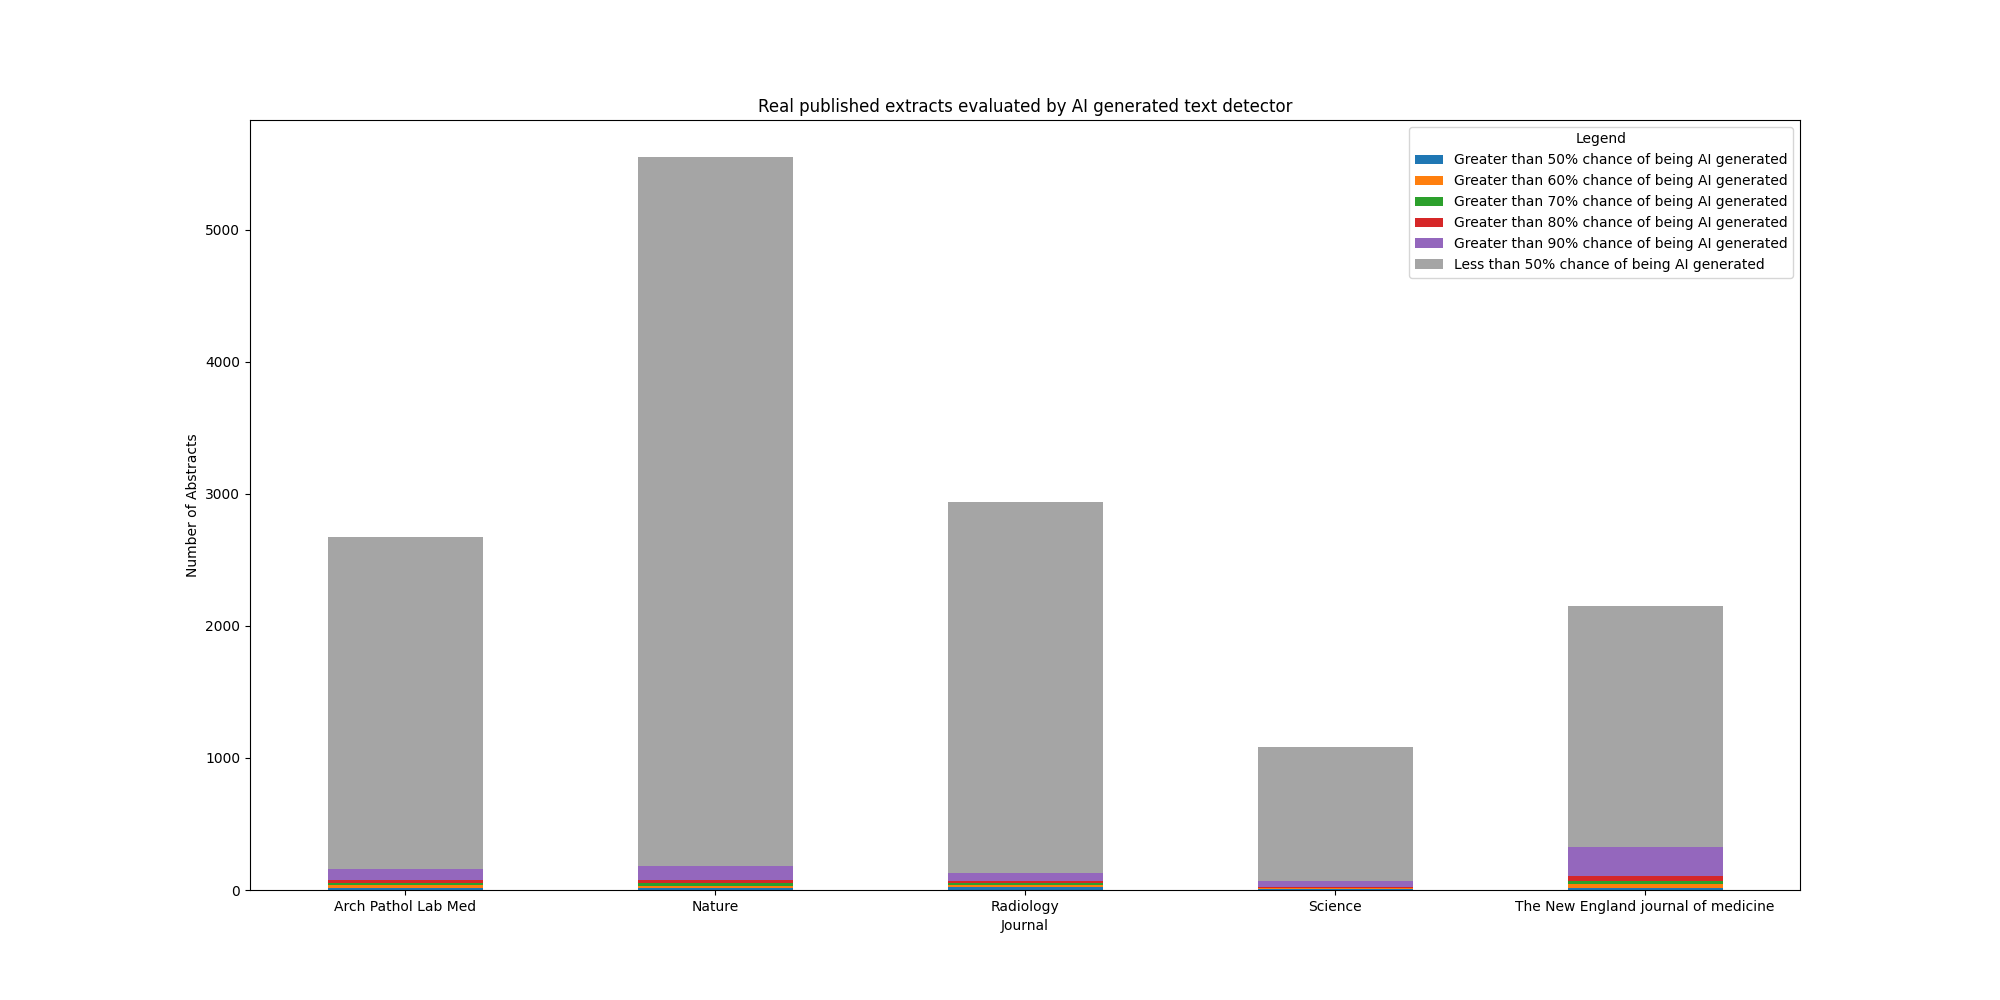
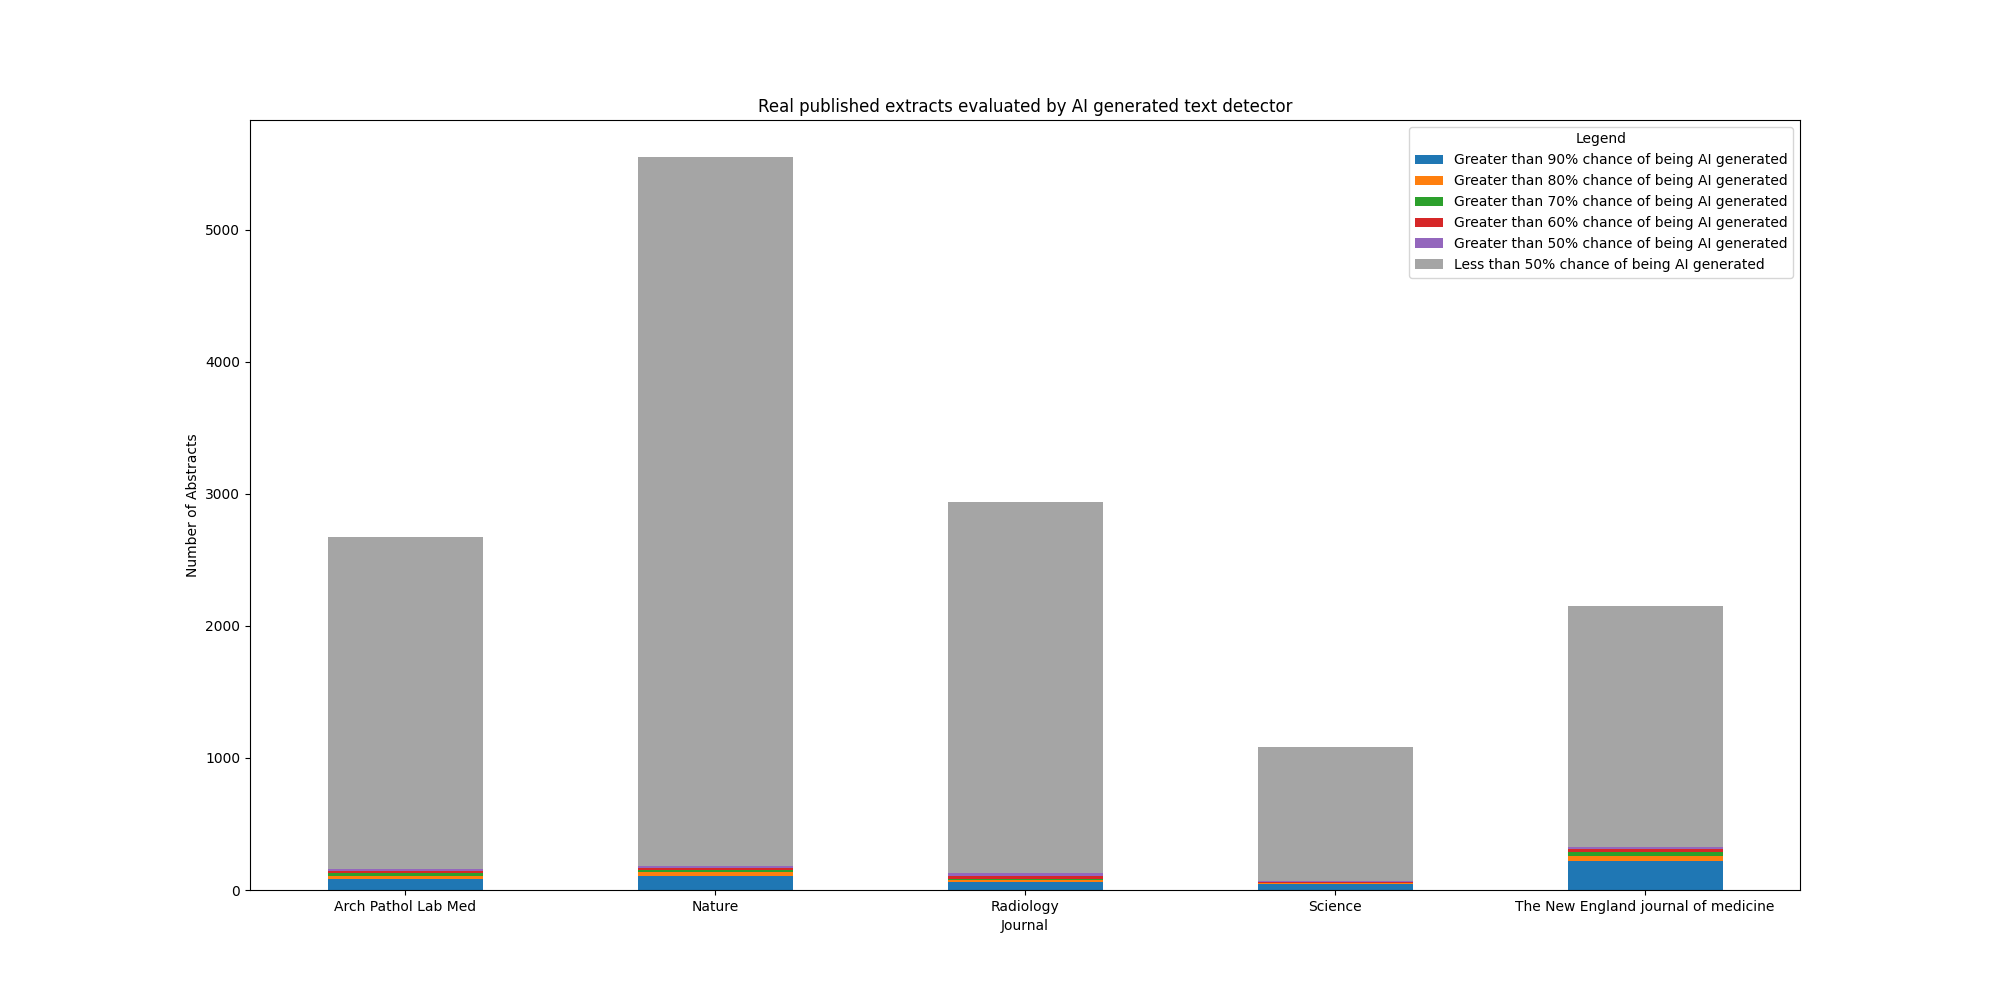
updates to the paper more index fixes to legend replacement viz update updating abstracts with stats from Dr. Hu

diff --git a/Scrap/abstracts-analysis.py b/Scrap/abstracts-analysis.py
@@ -4,45 +4,6 @@ from os import getcwd
 
 dir = getcwd()
 data_dir = dir.replace("Scrap", "Data\\")
-
-colors = [
-    "#1f77b4",  # blue
-    "#ff7f0e",  # orange
-    "#2ca02c",  # green
-    "#d62728",  # red
-    "#9467bd",  # purple
-    "#a5a5a5",  # grey
-]
-
-# by year
-yr_df_sample = read_csv(data_dir + "year-sample.csv")
-
-leg_rep = {
-    "Over 50% chance of being real": "Less than 50% chance of being AI generated",
-    "Less than 20% chance of being real": "Greater than 80% chance of being AI generated",
-    "Less than 10% chance of being real": "Greater than 90% chance of being AI generated",
-    "Less than 50% chance of being real": "Greater than 50% chance of being AI generated",
-    "Less than 30% chance of being real": "Greater than 70% chance of being AI generated",
-    "Less than 40% chance of being real": "Greater than 60% chance of being AI generated",
-}
-yr_df_sample["Legend"] = yr_df_sample["Legend"].replace(leg_rep)
-yr_grouped = yr_df_sample.groupby(["year_range", "Legend"]).size().unstack()
-
-new_order = [
-    "Greater than 90% chance of being AI generated",
-    "Greater than 80% chance of being AI generated",
-    "Greater than 70% chance of being AI generated",
-    "Greater than 60% chance of being AI generated",
-    "Greater than 50% chance of being AI generated",
-    "Less than 50% chance of being AI generated",
-]
-yr_grouped = yr_grouped.reindex(columns=new_order)
-
-tick_labels = yr_grouped.index.astype(str)
-yr_grouped.plot(kind="bar", stacked=True, color=colors, figsize=(20, 10))
-
-plt.xlabel("Year Range")
-plt.xticks(range(len(tick_labels)), tick_labels, rotation=0)
-plt.ylabel("Number of Abstracts")
-plt.title("Real published extracts evaluated by AI generated text detector")
-plt.show()
+abs_df = read_csv(data_dir + "abstracts.csv")
+abs_1_df = abs_df[abs_df["segment"] == 1]
+print(len(abs_1_df))

diff --git a/Code/pubmed-gpt-viz.py b/Code/pubmed-gpt-viz.py
@@ -1,7 +1,7 @@
 import matplotlib.pyplot as plt
 from pandas import read_csv
 from os import getcwd
-from numpy import zeros
+# from numpy import zeros
 
 dir = getcwd()
 data_dir = dir.replace("Code", "Data\\")
@@ -85,16 +85,7 @@ plt.savefig(viz_dir + "Years.png")
 # by journal
 jr_grouped = yr_df_sample.groupby(["journal", "Legend"]).size().unstack()
 
-new_order = [
-    "Greater than 90% chance of being AI generated",
-    "Greater than 80% chance of being AI generated",
-    "Greater than 70% chance of being AI generated",
-    "Greater than 60% chance of being AI generated",
-    "Greater than 50% chance of being AI generated",
-    "Less than 50% chance of being AI generated",
-]
-
-yr_grouped = yr_grouped.reindex(columns=new_order)
+jr_grouped = jr_grouped.reindex(columns=new_order)
 tick_labels = jr_grouped.index.astype(str)
 jr_grouped.plot(kind="bar", stacked=True, color=colors, figsize=(20, 10))
 
@@ -134,11 +125,12 @@ seg_df_sample = abs_df.merge(
     on=["article_url", "year_range", "url"],
     how="inner",
 )
-seg_grouped = (
-    seg_df_sample.groupby(["segment", "Legend"]).size().unstack()
-).reset_index()
-seg_grouped["segment"] = seg_grouped["segment"].astype(str)
-tick_labels = seg_grouped["segment"].astype(str)
+seg_df_sample["Legend"] = seg_df_sample["Legend"].replace(leg_rep)
+seg_grouped = seg_df_sample.groupby(["segment", "Legend"]).size().unstack()
+
+seg_grouped = seg_grouped.reindex(columns=new_order)
+seg_grouped.index = seg_grouped.index.astype(str)
+tick_labels = seg_grouped.index.astype(str)
 seg_grouped.plot(kind="bar", stacked=True, color=colors, figsize=(20, 10))
 
 plt.xlabel("Segment")
